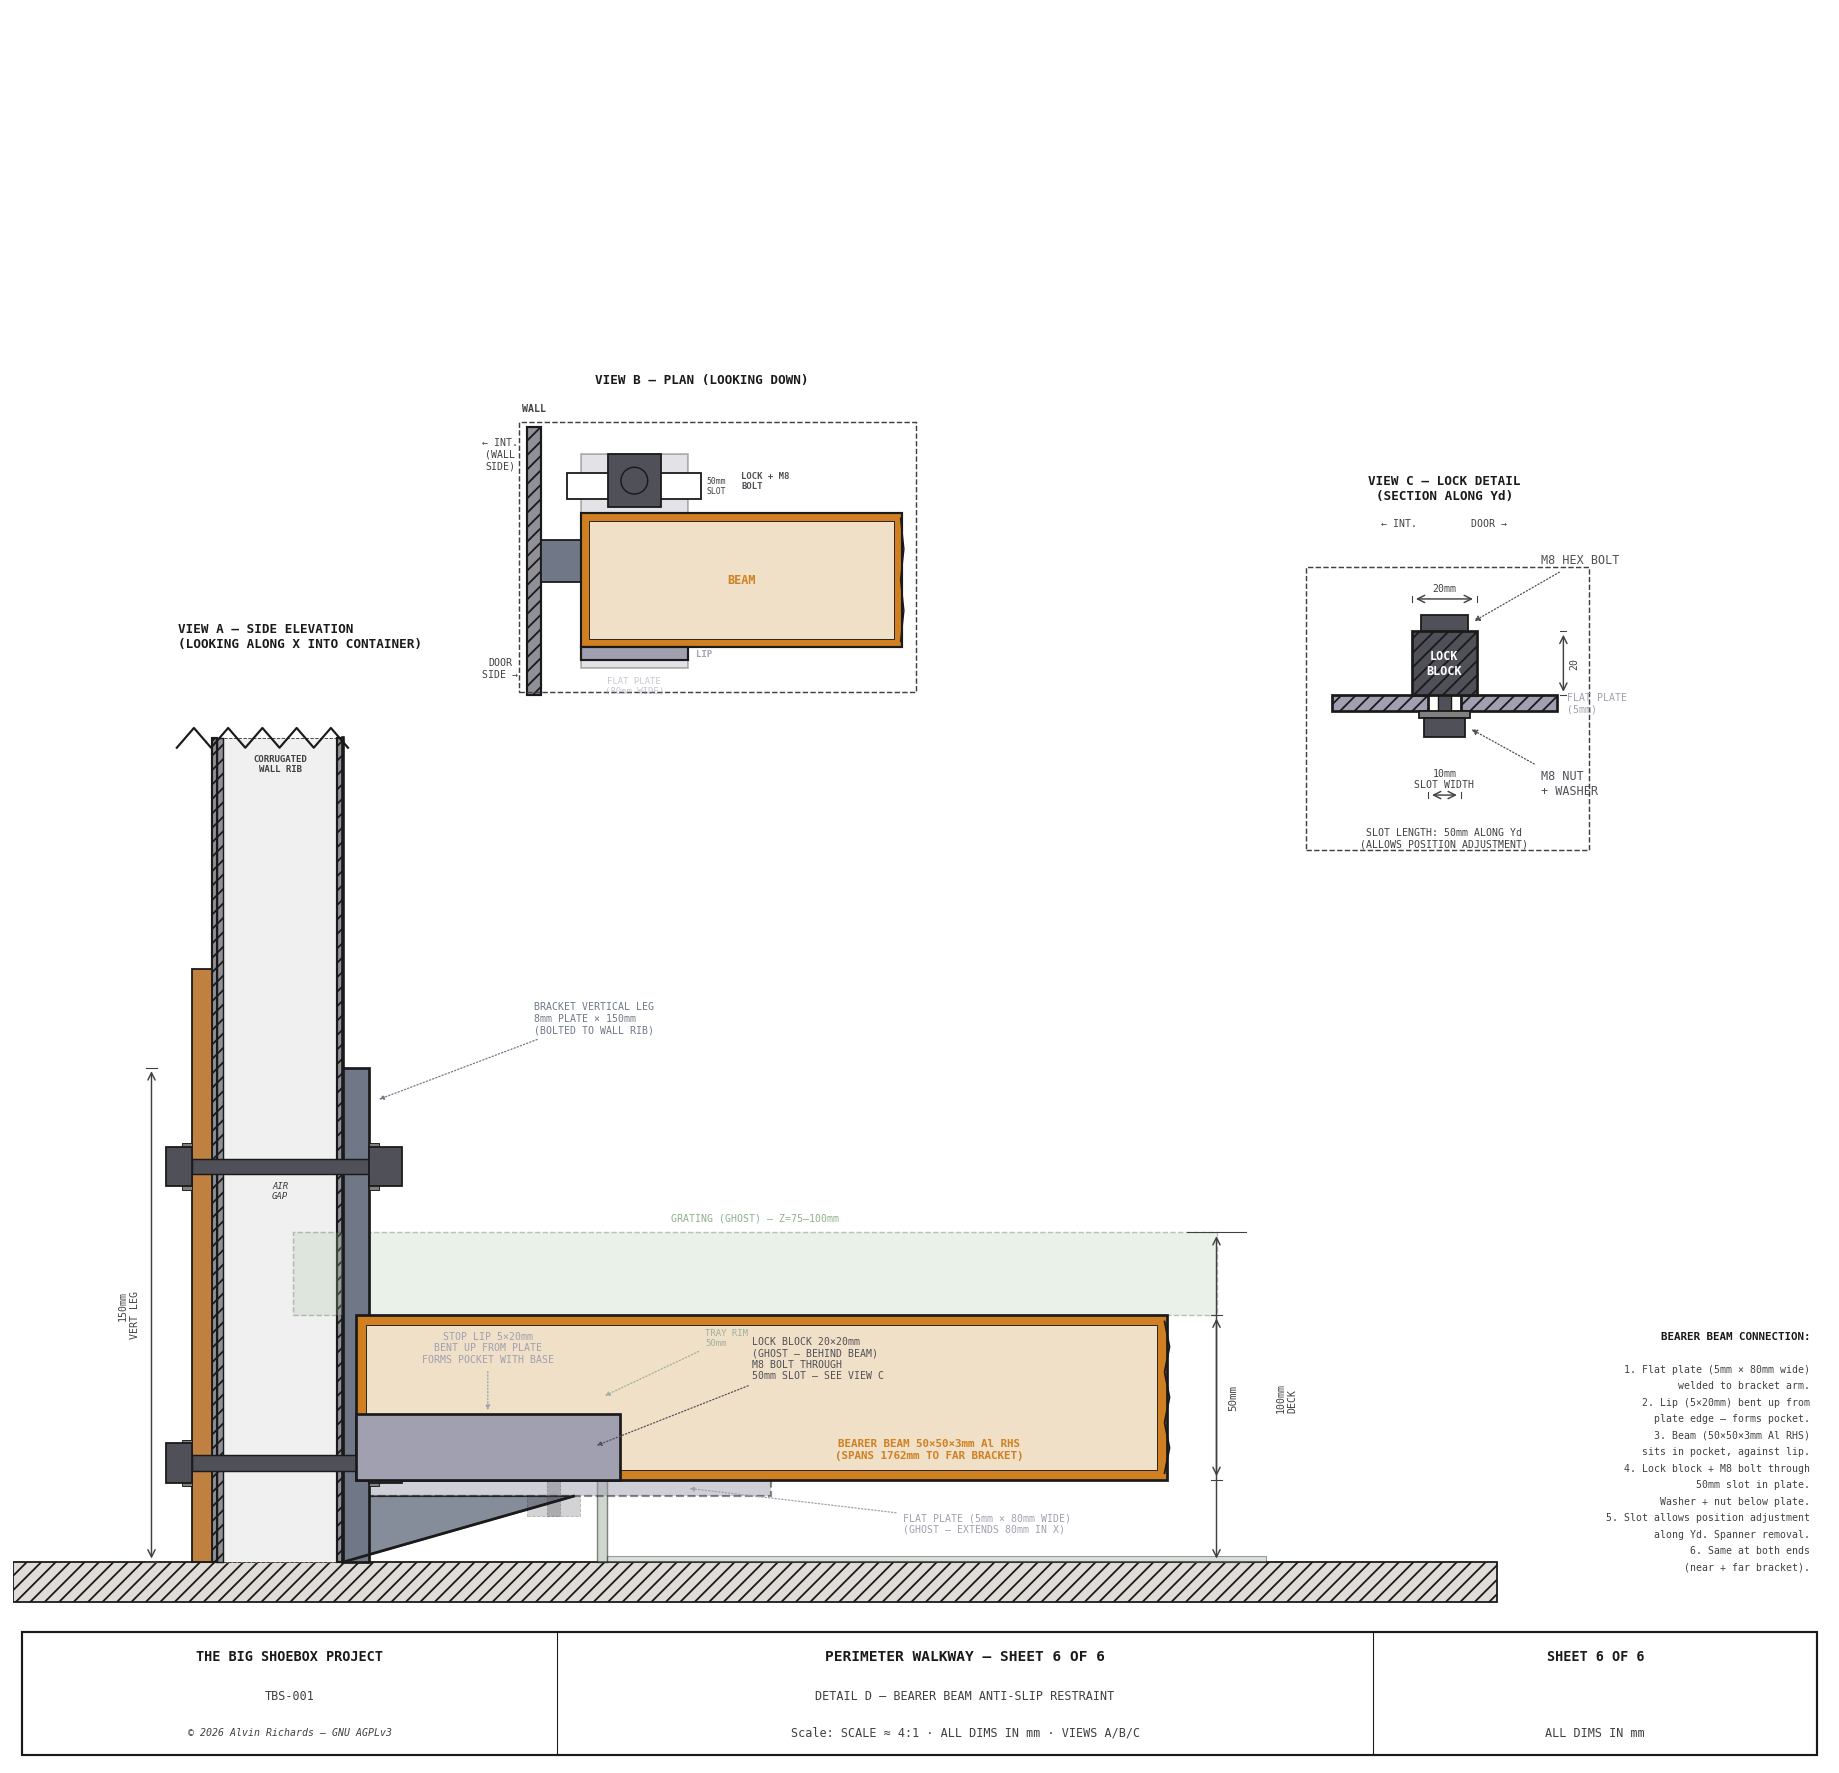
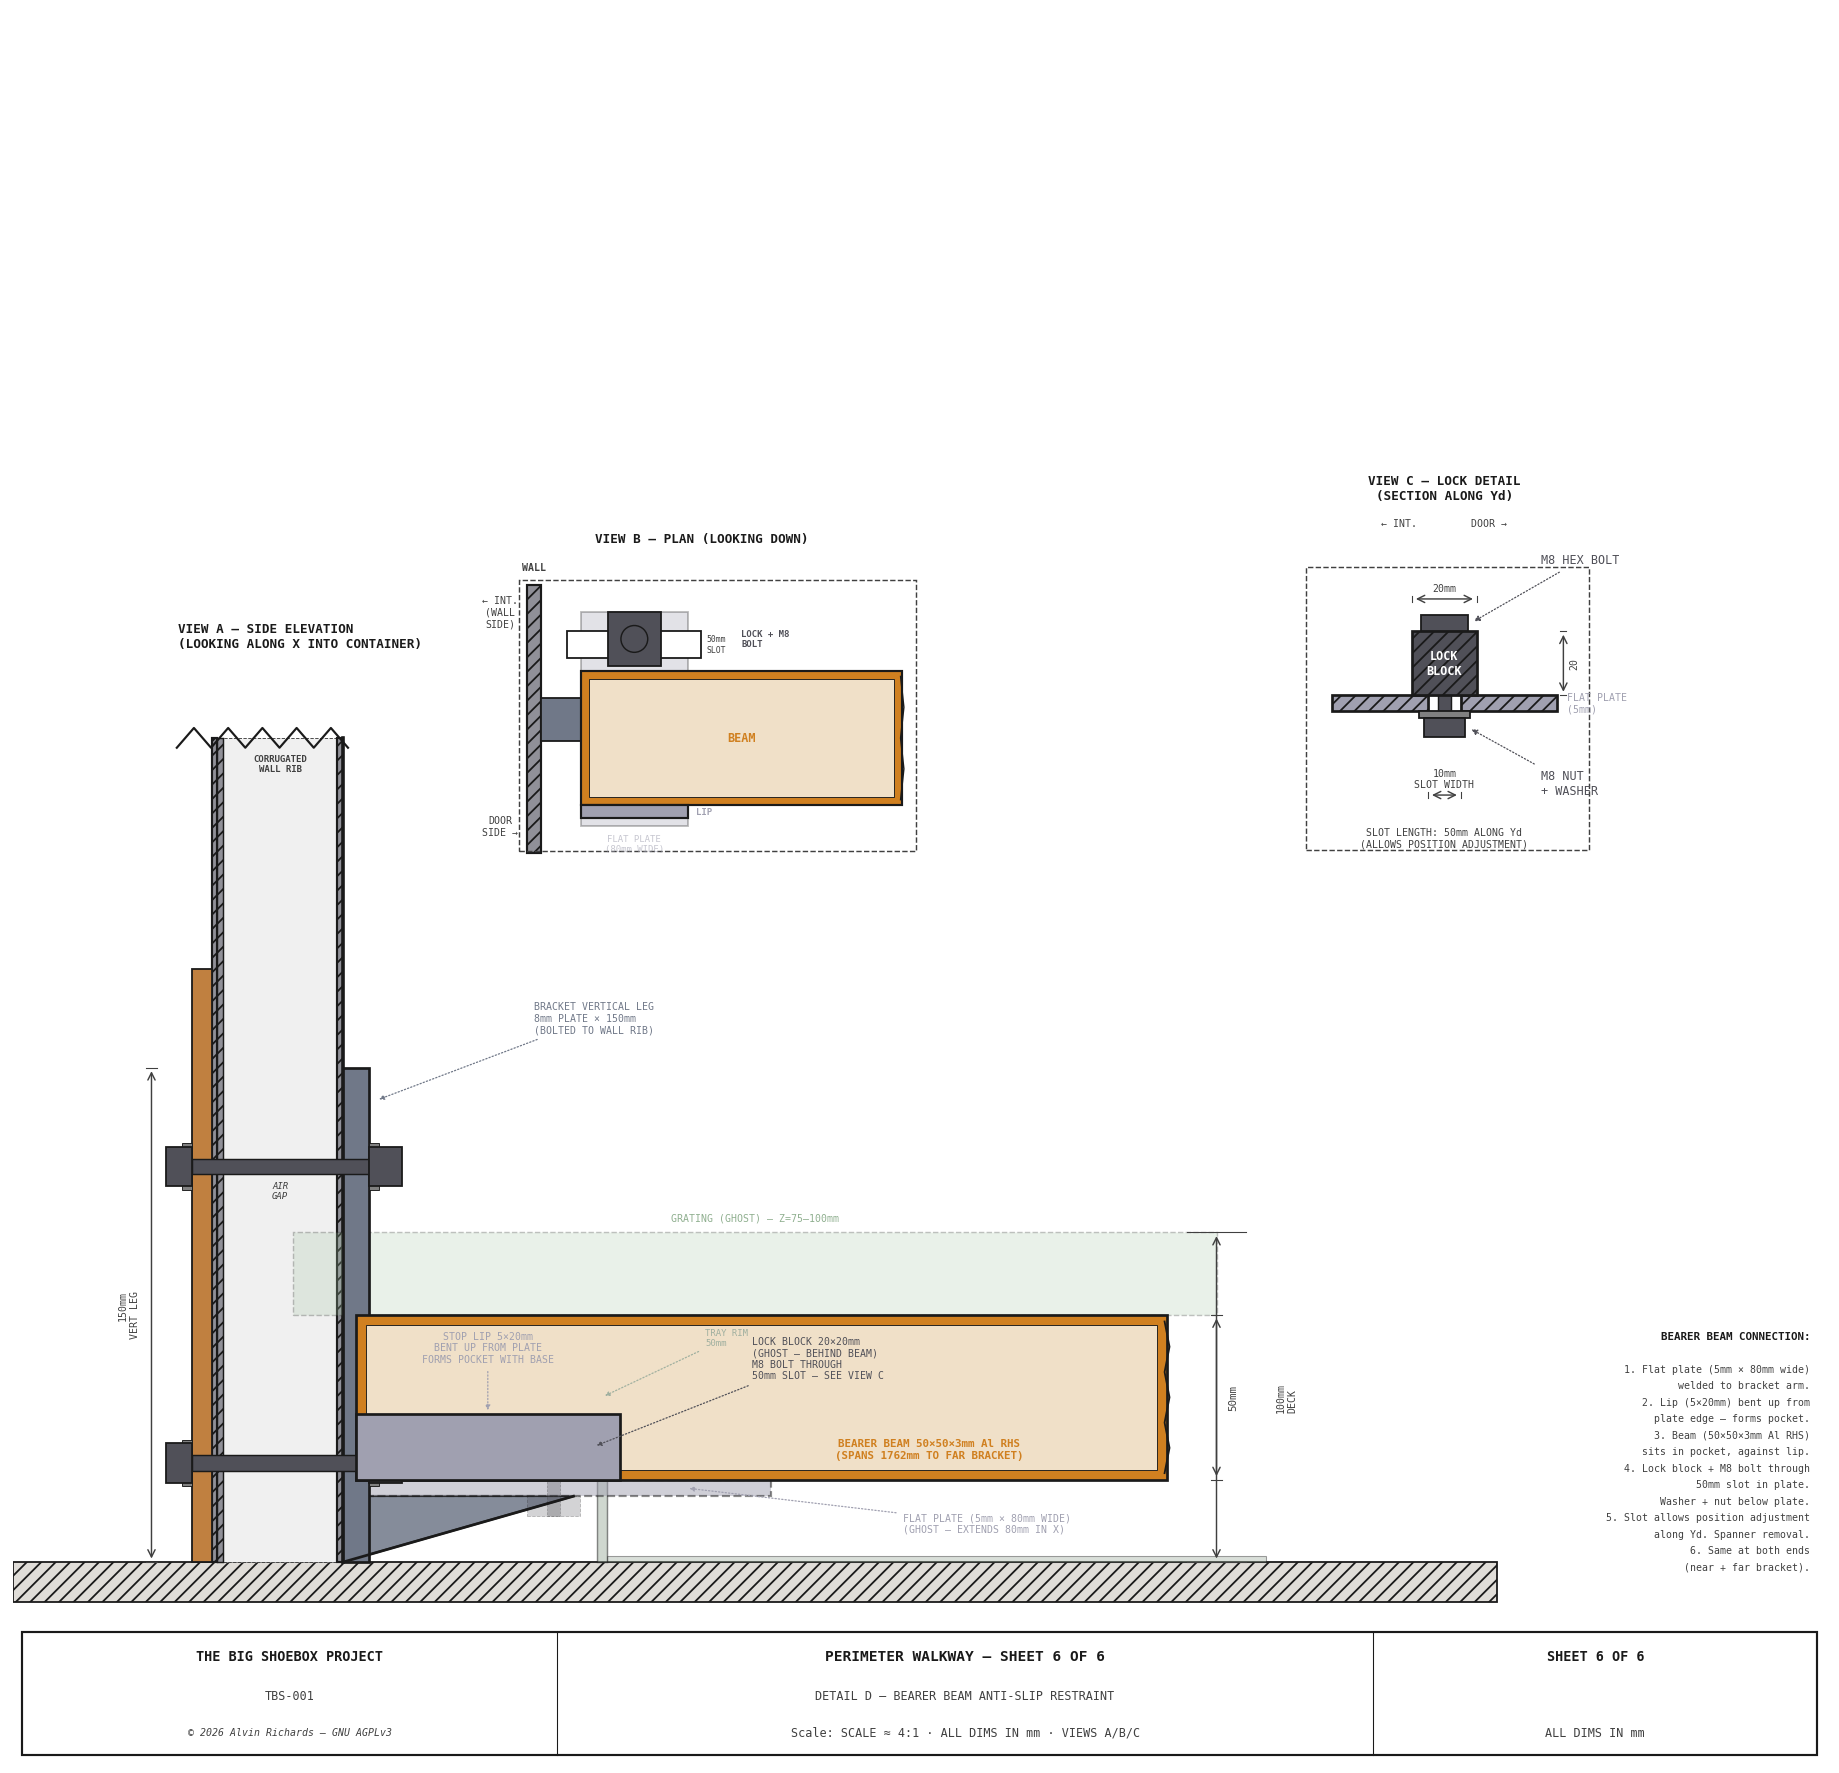
Sheet 6: bottom-align View B with View C

Changed region(s): [[0.279, 0.2171, 0.4959, 0.4963], [0.4029, 0.1861, 0.4339, 0.2171]]

diff --git a/generate_walkway_diagram.py b/generate_walkway_diagram.py
@@ -2138,7 +2138,7 @@ def sheet6():
     # door at bottom).  Beam extends one direction only (from wall inward).
     # ══════════════════════════════════════════════════════════════════════════
     PV_OX = 60
-    PV_OY = BRKT_VERT + 113
+    PV_OY = BRKT_VERT + 65
     PV_S  = 3.25   # 30% larger than original 2.5
     def px(mm): return sx(PV_OX + mm * PV_S / S)
     def py(mm): return sy(PV_OY + mm * PV_S / S)
@@ -2257,7 +2257,7 @@ def sheet6():
     # bolt through slot, washer + nut underneath.
     # ══════════════════════════════════════════════════════════════════════════
     VC_OX = 300
-    VC_OY = PV_OY - 5   # align with View B vertically
+    VC_OY = BRKT_VERT + 108   # bottom-aligned with View B
     VC_S  = 3.9   # 30% larger than original 3.0
     def cx(mm): return sx(VC_OX + mm * VC_S / S)
     def cy(mm): return sy(VC_OY + mm * VC_S / S)
